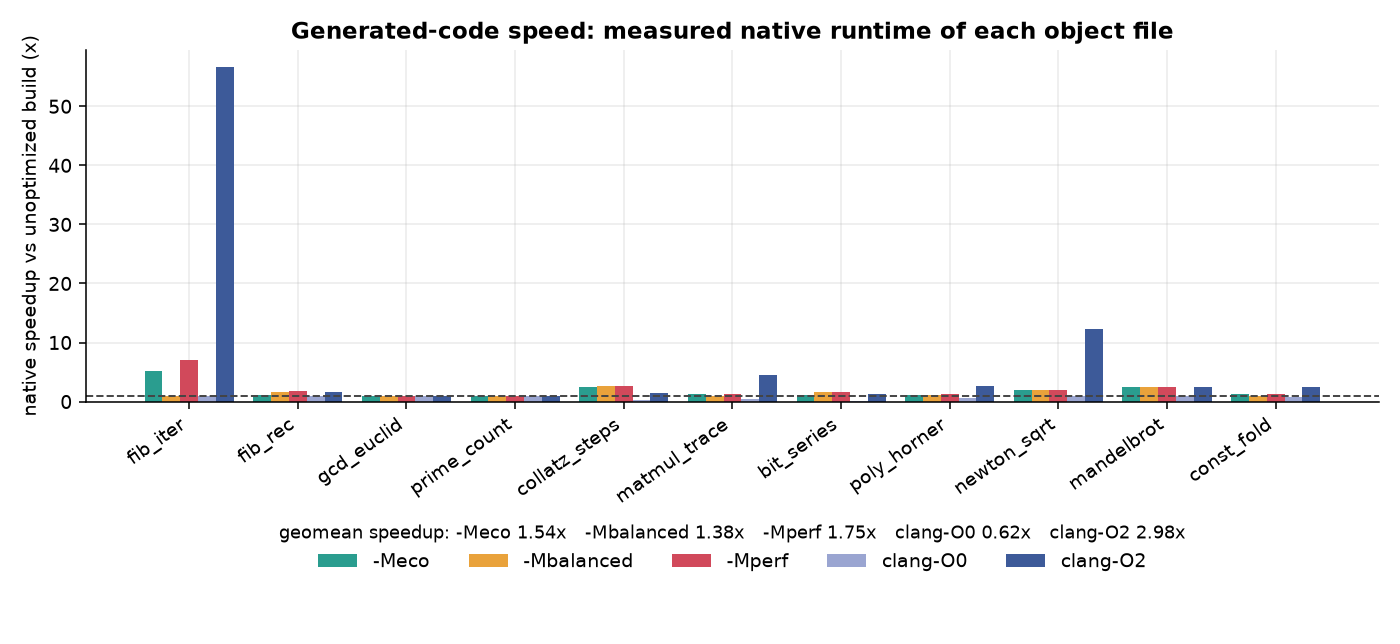
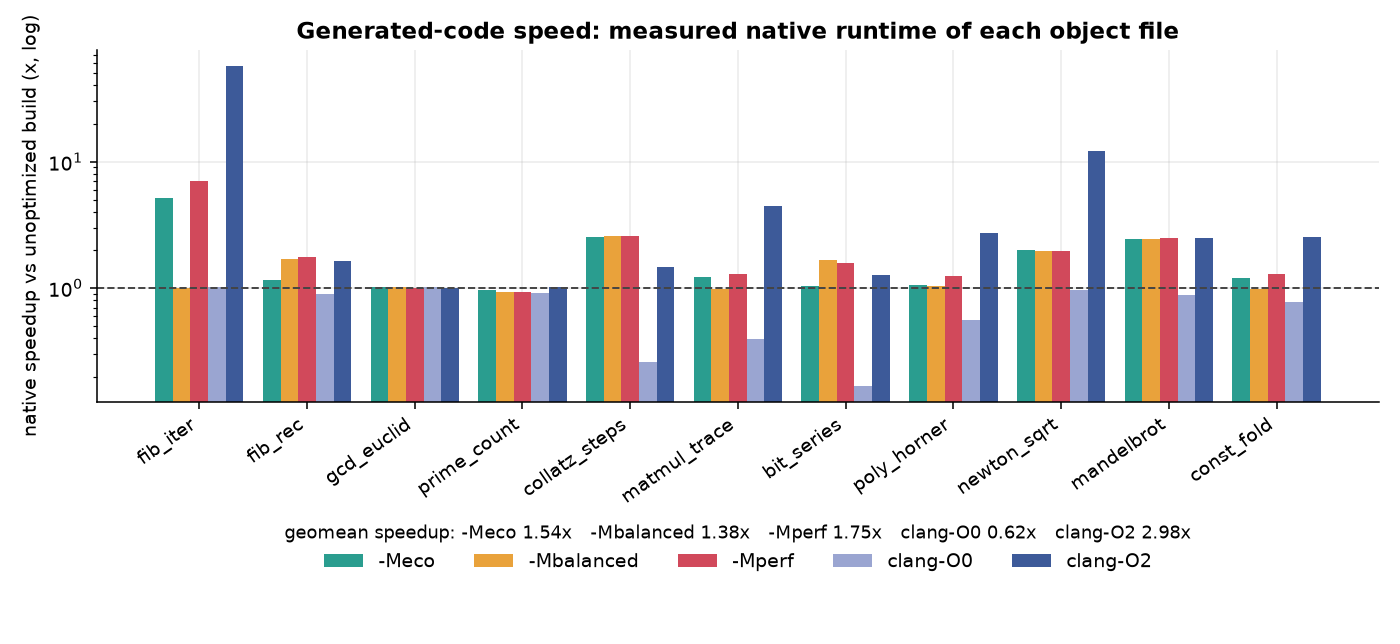
benchmarks: log-scale speedup chart (clang folds fib_iter away at 55x)

diff --git a/benchmarks/report_benchmarks.py b/benchmarks/report_benchmarks.py
@@ -76,9 +76,9 @@ def grouped_bars(ax, kernels, configs, value_fn, log=False):
 def chart_runtime(results, out):
     ks = results["kernels"]
     fig, ax = plt.subplots(figsize=(10, 4.6))
-    grouped_bars(ax, ks, ALL, lambda b: b["speedup_vs_unopt"])
+    grouped_bars(ax, ks, ALL, lambda b: b["speedup_vs_unopt"], log=True)
     ax.axhline(1.0, color="#444", lw=1, ls="--")
-    ax.set_ylabel("native speedup vs unoptimized build (x)")
+    ax.set_ylabel("native speedup vs unoptimized build (x, log)")
     ax.set_title("Generated-code speed: measured native runtime of each object file")
     gm = {c: geomean([build_of(k, c)["speedup_vs_unopt"] for k in ks]) for c in ALL}
     ax.legend(ncol=5, loc="upper center", bbox_to_anchor=(0.5, -0.3),
